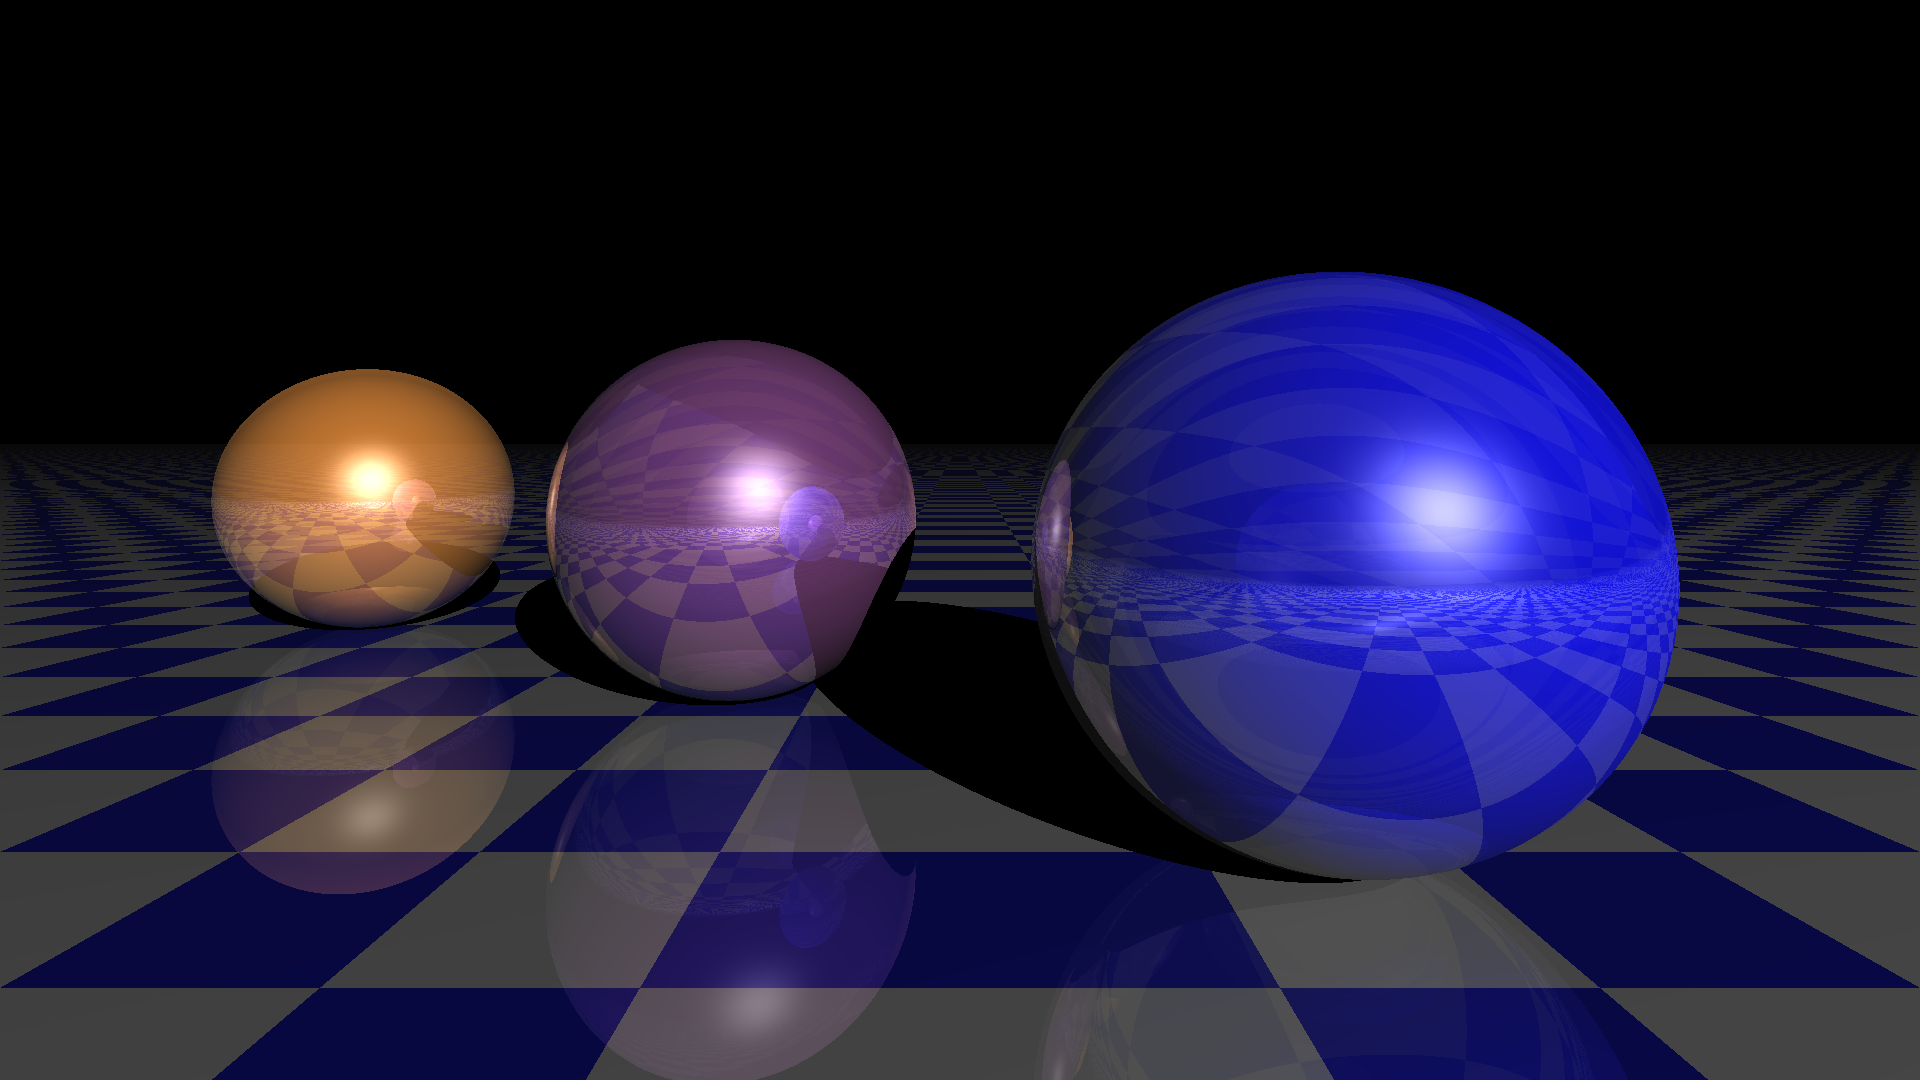
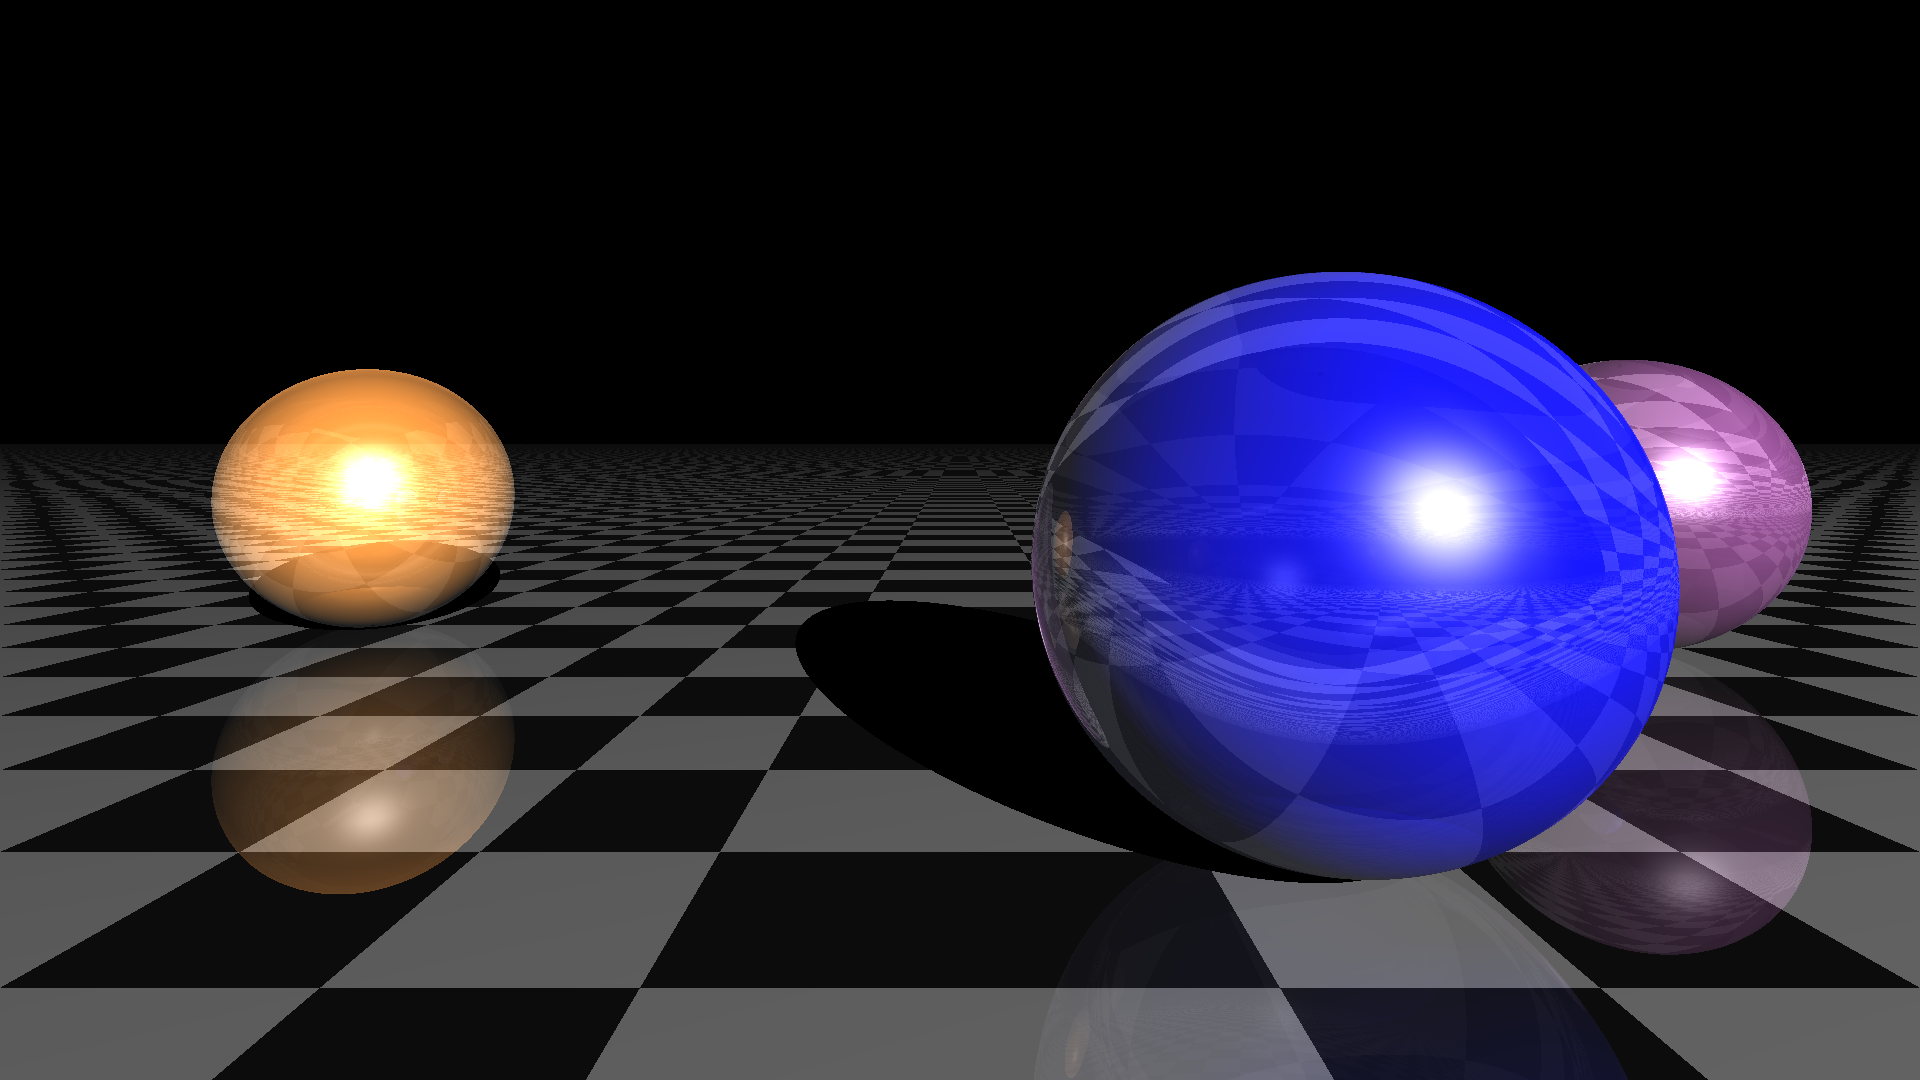
-add refraction and result image

diff --git a/raytracing.py b/raytracing.py
@@ -1,18 +1,14 @@
 """
 MIT License
-
 Copyright (c) 2017 Cyrille Rossant
-
 Permission is hereby granted, free of charge, to any person obtaining a copy
 of this software and associated documentation files (the "Software"), to deal
 in the Software without restriction, including without limitation the rights
 to use, copy, modify, merge, publish, distribute, sublicense, and/or sell
 copies of the Software, and to permit persons to whom the Software is
 furnished to do so, subject to the following conditions:
-
 The above copyright notice and this permission notice shall be included in all
 copies or substantial portions of the Software.
-
 THE SOFTWARE IS PROVIDED "AS IS", WITHOUT WARRANTY OF ANY KIND, EXPRESS OR
 IMPLIED, INCLUDING BUT NOT LIMITED TO THE WARRANTIES OF MERCHANTABILITY,
 FITNESS FOR A PARTICULAR PURPOSE AND NONINFRINGEMENT. IN NO EVENT SHALL THE
@@ -24,10 +20,9 @@ SOFTWARE.
 
 import numpy as np
 import matplotlib.pyplot as plt
-from sklearn import clone
 
-w = 1920  # 400
-h = 1080  # 300
+w = 1920  #400
+h = 1080  #300
 
 
 def normalize(x):
@@ -87,7 +82,7 @@ def get_normal(obj, M):
 def get_color(obj, M):
     color = obj['color']
     if not hasattr(color, '__len__'):
-        color = color(M)
+        color = color(M) * obj.get('transparency', 1.)
     return color
 
 
@@ -112,7 +107,7 @@ def trace_ray(rayO, rayD):
     toO = normalize(O - M)
     # Shadow: find if the point is shadowed or not.
     l = [intersect(M + N * .0001, toL, obj_sh)
-         for k, obj_sh in enumerate(scene) if k != obj_idx]
+            for k, obj_sh in enumerate(scene) if k != obj_idx]
     if l and min(l) < np.inf:
         return
     # Start computing the color.
@@ -124,61 +119,70 @@ def trace_ray(rayO, rayD):
     return obj, M, N, col_ray
 
 
-
-def add_sphere(position, radius, color,
-               refraction_coef=0.):
-    # Here refraction coef is difference between squares of refraction coefficients of 2 environments
-    # n_2 ** 2 - n_1 ** 2.
+def add_sphere(position, radius, color, reflection=.2,
+               transparency=0.0, refraction_coef=0.0):
     return dict(type='sphere', position=np.array(position),
-                radius=np.array(radius), color=np.array(color), reflection=.5, refraction_coef=refraction_coef)
+                radius=np.array(radius), color=np.array(color),
+                reflection=reflection, transparency=transparency,
+                refraction_coef=refraction_coef)
 
 
-def add_plane(position, normal):
+def add_plane(position, normal,
+              diffuse_c=.75, specular_c=.5, reflection=.25):
     return dict(type='plane', position=np.array(position),
-                normal=np.array(normal),
-                color=lambda M: (color_plane0
-                                 if (int(M[0] * 2) % 2) == (int(M[2] * 2) % 2) else color_plane1),
-                diffuse_c=.75, specular_c=.5, reflection=.25)
+        normal=np.array(normal),
+        color=lambda M: (color_plane0
+            if (int(M[0] * 2) % 2) == (int(M[2] * 2) % 2) else color_plane1),
+        diffuse_c=diffuse_c, specular_c=specular_c, reflection=reflection)
 
 
-def tracing(rayO, rayD, reflection, refract, col, depth):
-    # Continue until limit of reflections is reached
+def refract_ray(vect, n, coef):
+    nv = np.dot(n, vect)
+    if nv > 0:
+        return refract_ray(vect, n * -1, 1 / coef)
+    a = 1 / coef
+    D = 1 - a * a * (1 - nv * nv)
+    if D < 0:
+        return None
+    b = nv * a + np.math.sqrt(D)
+    return (a * vect) - (b * n)
+
+
+def ray_trace(rayO, rayD, reflection, col, depth, refract):
     if depth >= depth_max:
         return
+
     traced = trace_ray(rayO, rayD)
     if not traced:
-        return      # Error
+        return
 
     obj, M, N, col_ray = traced
+    col += reflection * col_ray
 
     # Reflection: create a new ray.
-    rayO_refl, rayD_refl = M + N * .0001, normalize(rayD - 2 * np.dot(rayD, N) * N)
-    col += reflection * col_ray
-    reflection *= obj.get('reflection', 1.)
-    # Processing of created reflected ray
-    if tracing(rayO_refl, rayD_refl, reflection, refract, col, depth + 1):
+    rayO1, rayD1 = M + N * refract * .0001, normalize(rayD - 2 * np.dot(rayD, N) * N)
+    if ray_trace(rayO1, rayD1, reflection * obj.get('reflection', 1.), col, depth + 1, refract):
         return
 
     # Refraction: create a new ray.
-    rayO_refr, rayD_refr = M - refract * N * .0001, rayD + \
-                           (np.sqrt(refract * obj.get('refraction_coef', 1.) / np.dot(rayD, N) ** 2 + 1) - 1) * \
-                           (np.dot(rayD, N) * N)
-    if rayD_refr is None:
+    rayD_r = refract_ray(rayD, N, obj.get('refraction_coef', 1.))
+    if dir is None:
         return
-    # Processing of created refracted ray; -1 for transition between environments
-    if tracing(rayO_refr, rayD_refr, reflection, refract * (-1), col, depth + 1):
+    rayO_afterRefr, rayD_afterRefr = M - N * refract * .0001, rayD_r
+    if ray_trace(rayO_afterRefr, rayD_afterRefr, reflection * obj.get('transparency', 1.), col, depth + 1, refract * (-1)):
         return
+
     return
 
 
 # List of objects.
 color_plane0 = 1. * np.ones(3)
-color_plane1 = np.array([0., 0., 1.])
-scene = [add_sphere([.75, .1, 1.], .6, [0., 0., 1.], 0.96),
-         add_sphere([-.75, .1, 2.25], .6, [.5, .223, .5], 0.96),
-         add_sphere([-2.75, .1, 3.5], .6, [1., .572, .184], 0.),
+color_plane1 = 0. * np.ones(3)
+scene = [add_sphere([.75, .1, 1.], .6, [0., 0., 1.], transparency=0.7, refraction_coef=1.25),
+         add_sphere([2.75, .1, 3.], .6, [.5, .223, .5], transparency=0.8, refraction_coef=1.5),
+         add_sphere([-2.75, .1, 3.5], .6, [1., .572, .184], transparency=0.8, refraction_coef=1.0),
          add_plane([0., -.5, 0.], [0., 1., 0.]),
-         ]
+    ]
 
 # Light position and color.
 L = np.array([5., 5., -10.])
@@ -200,20 +204,21 @@ r = float(w) / h
 # Screen coordinates: x0, y0, x1, y1.
 S = (-1., -1. / r + .25, 1., 1. / r + .25)
 
+
 # Loop through all pixels.
 for i, x in enumerate(np.linspace(S[0], S[2], w)):
     if i % 10 == 0:
         print(i / float(w) * 100, "%")
+
     for j, y in enumerate(np.linspace(S[1], S[3], h)):
         col[:] = 0
         Q[:2] = (x, y)
         D = normalize(Q - O)
         depth = 0
         rayO, rayD = O, D
-        reflection = .7
-        refract = 1.
-
-        tracing(rayO, rayD, reflection, refract, col, depth)
+        reflection = 1.
+        refract = 1
+        ray_trace(rayO, rayD, reflection, col, depth, refract)
         img[h - j - 1, i, :] = np.clip(col, 0, 1)
 
-plt.imsave('fig_final.png', img)
+plt.imsave('fig_final_new.png', img)
